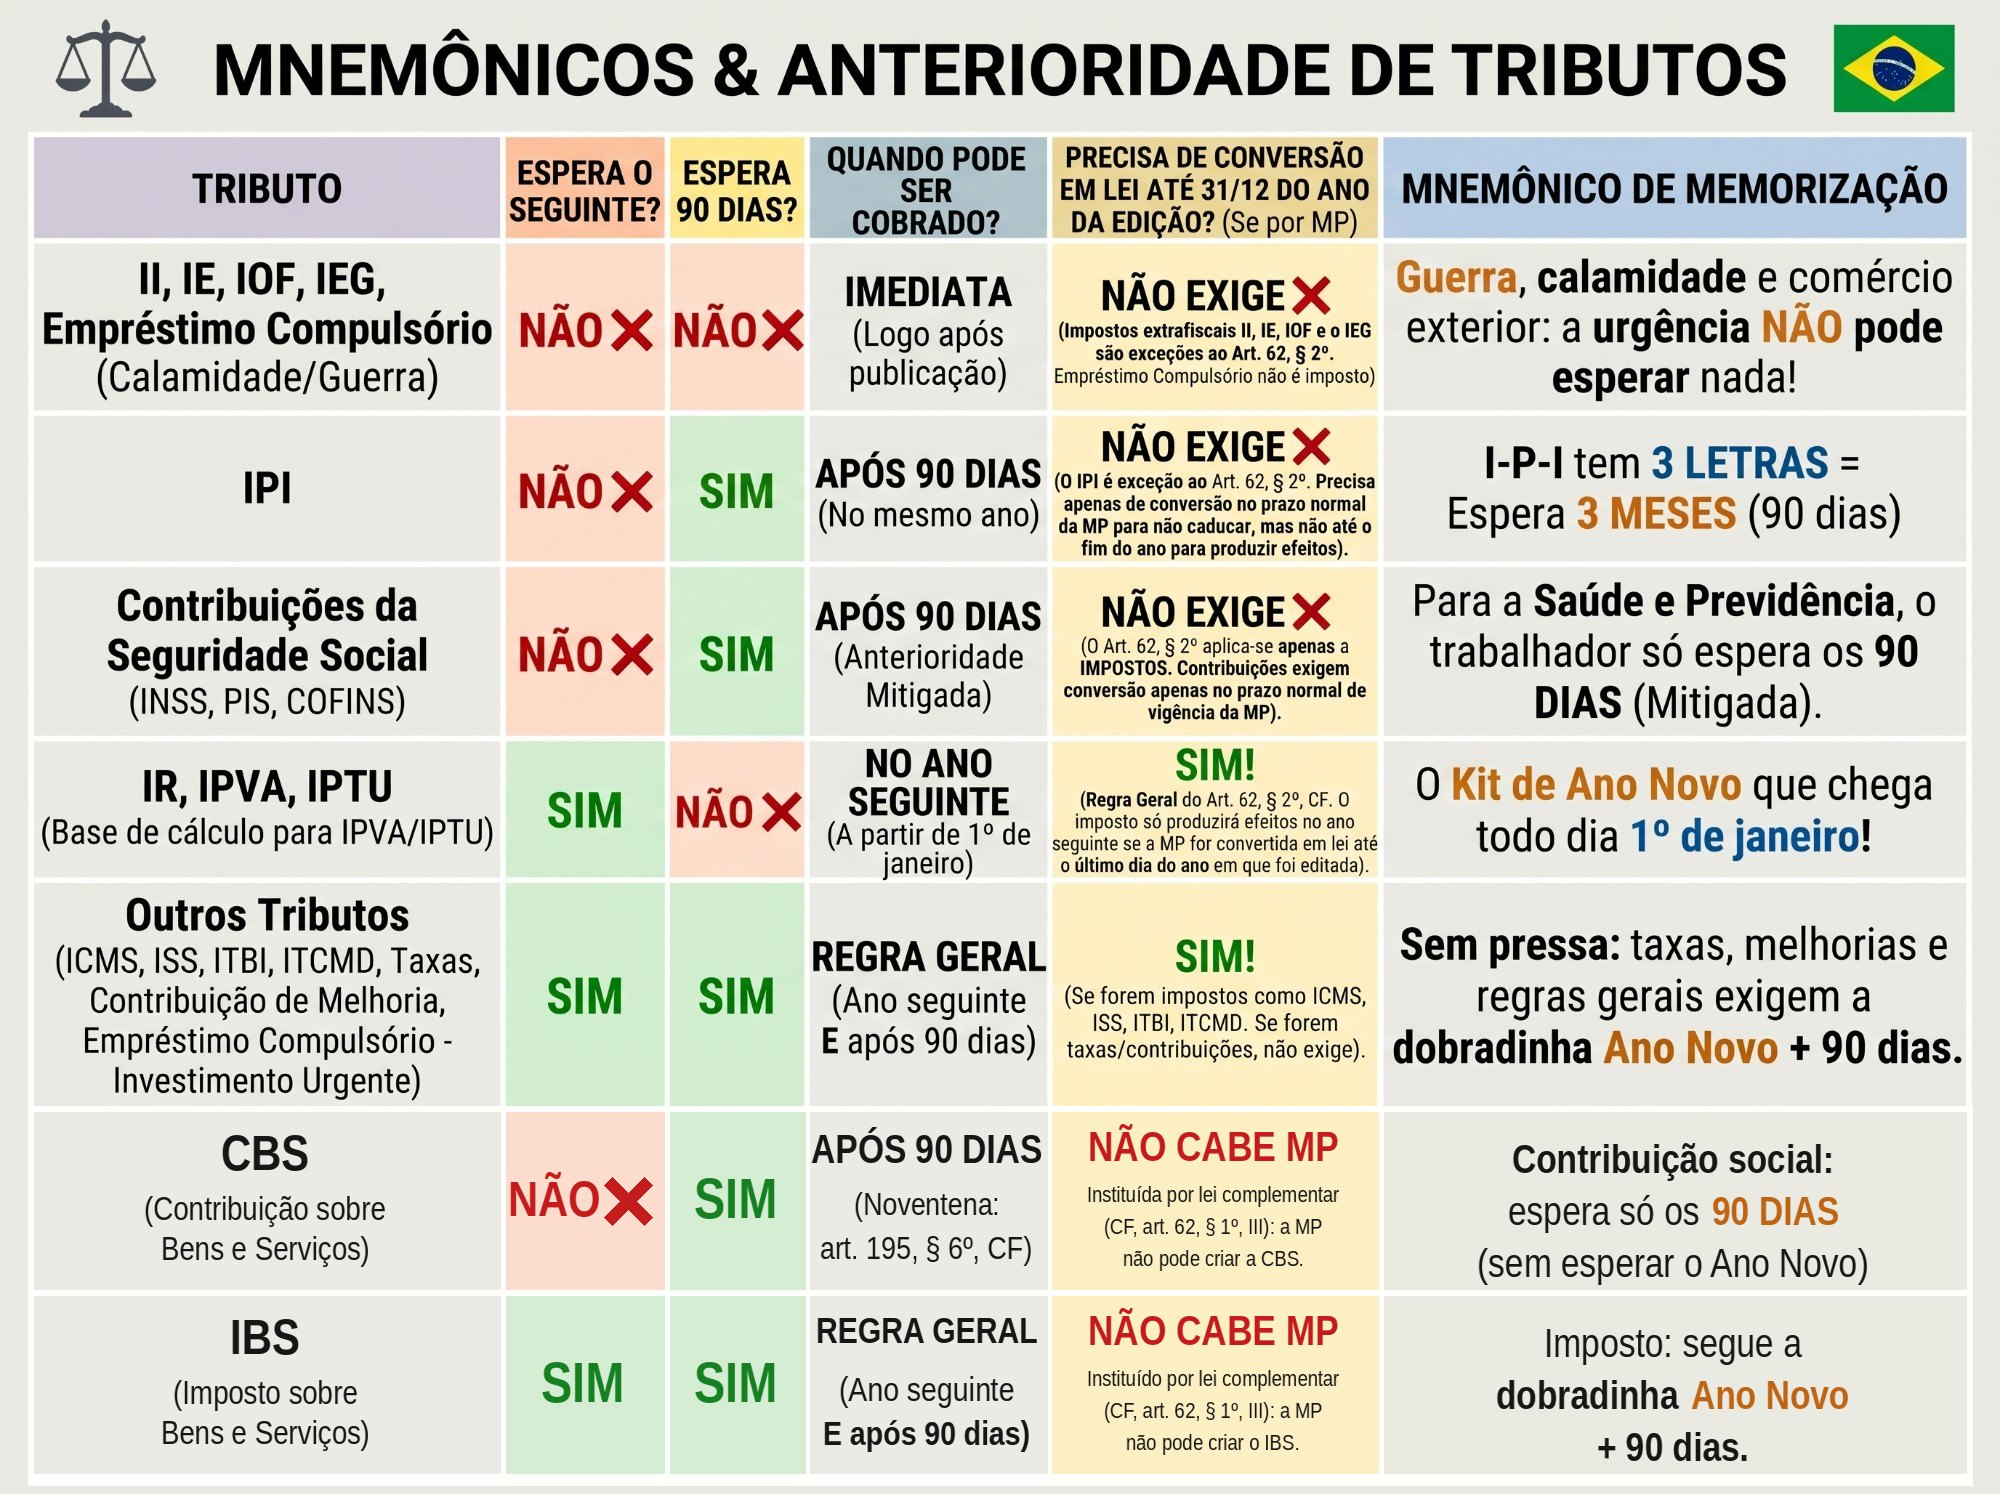
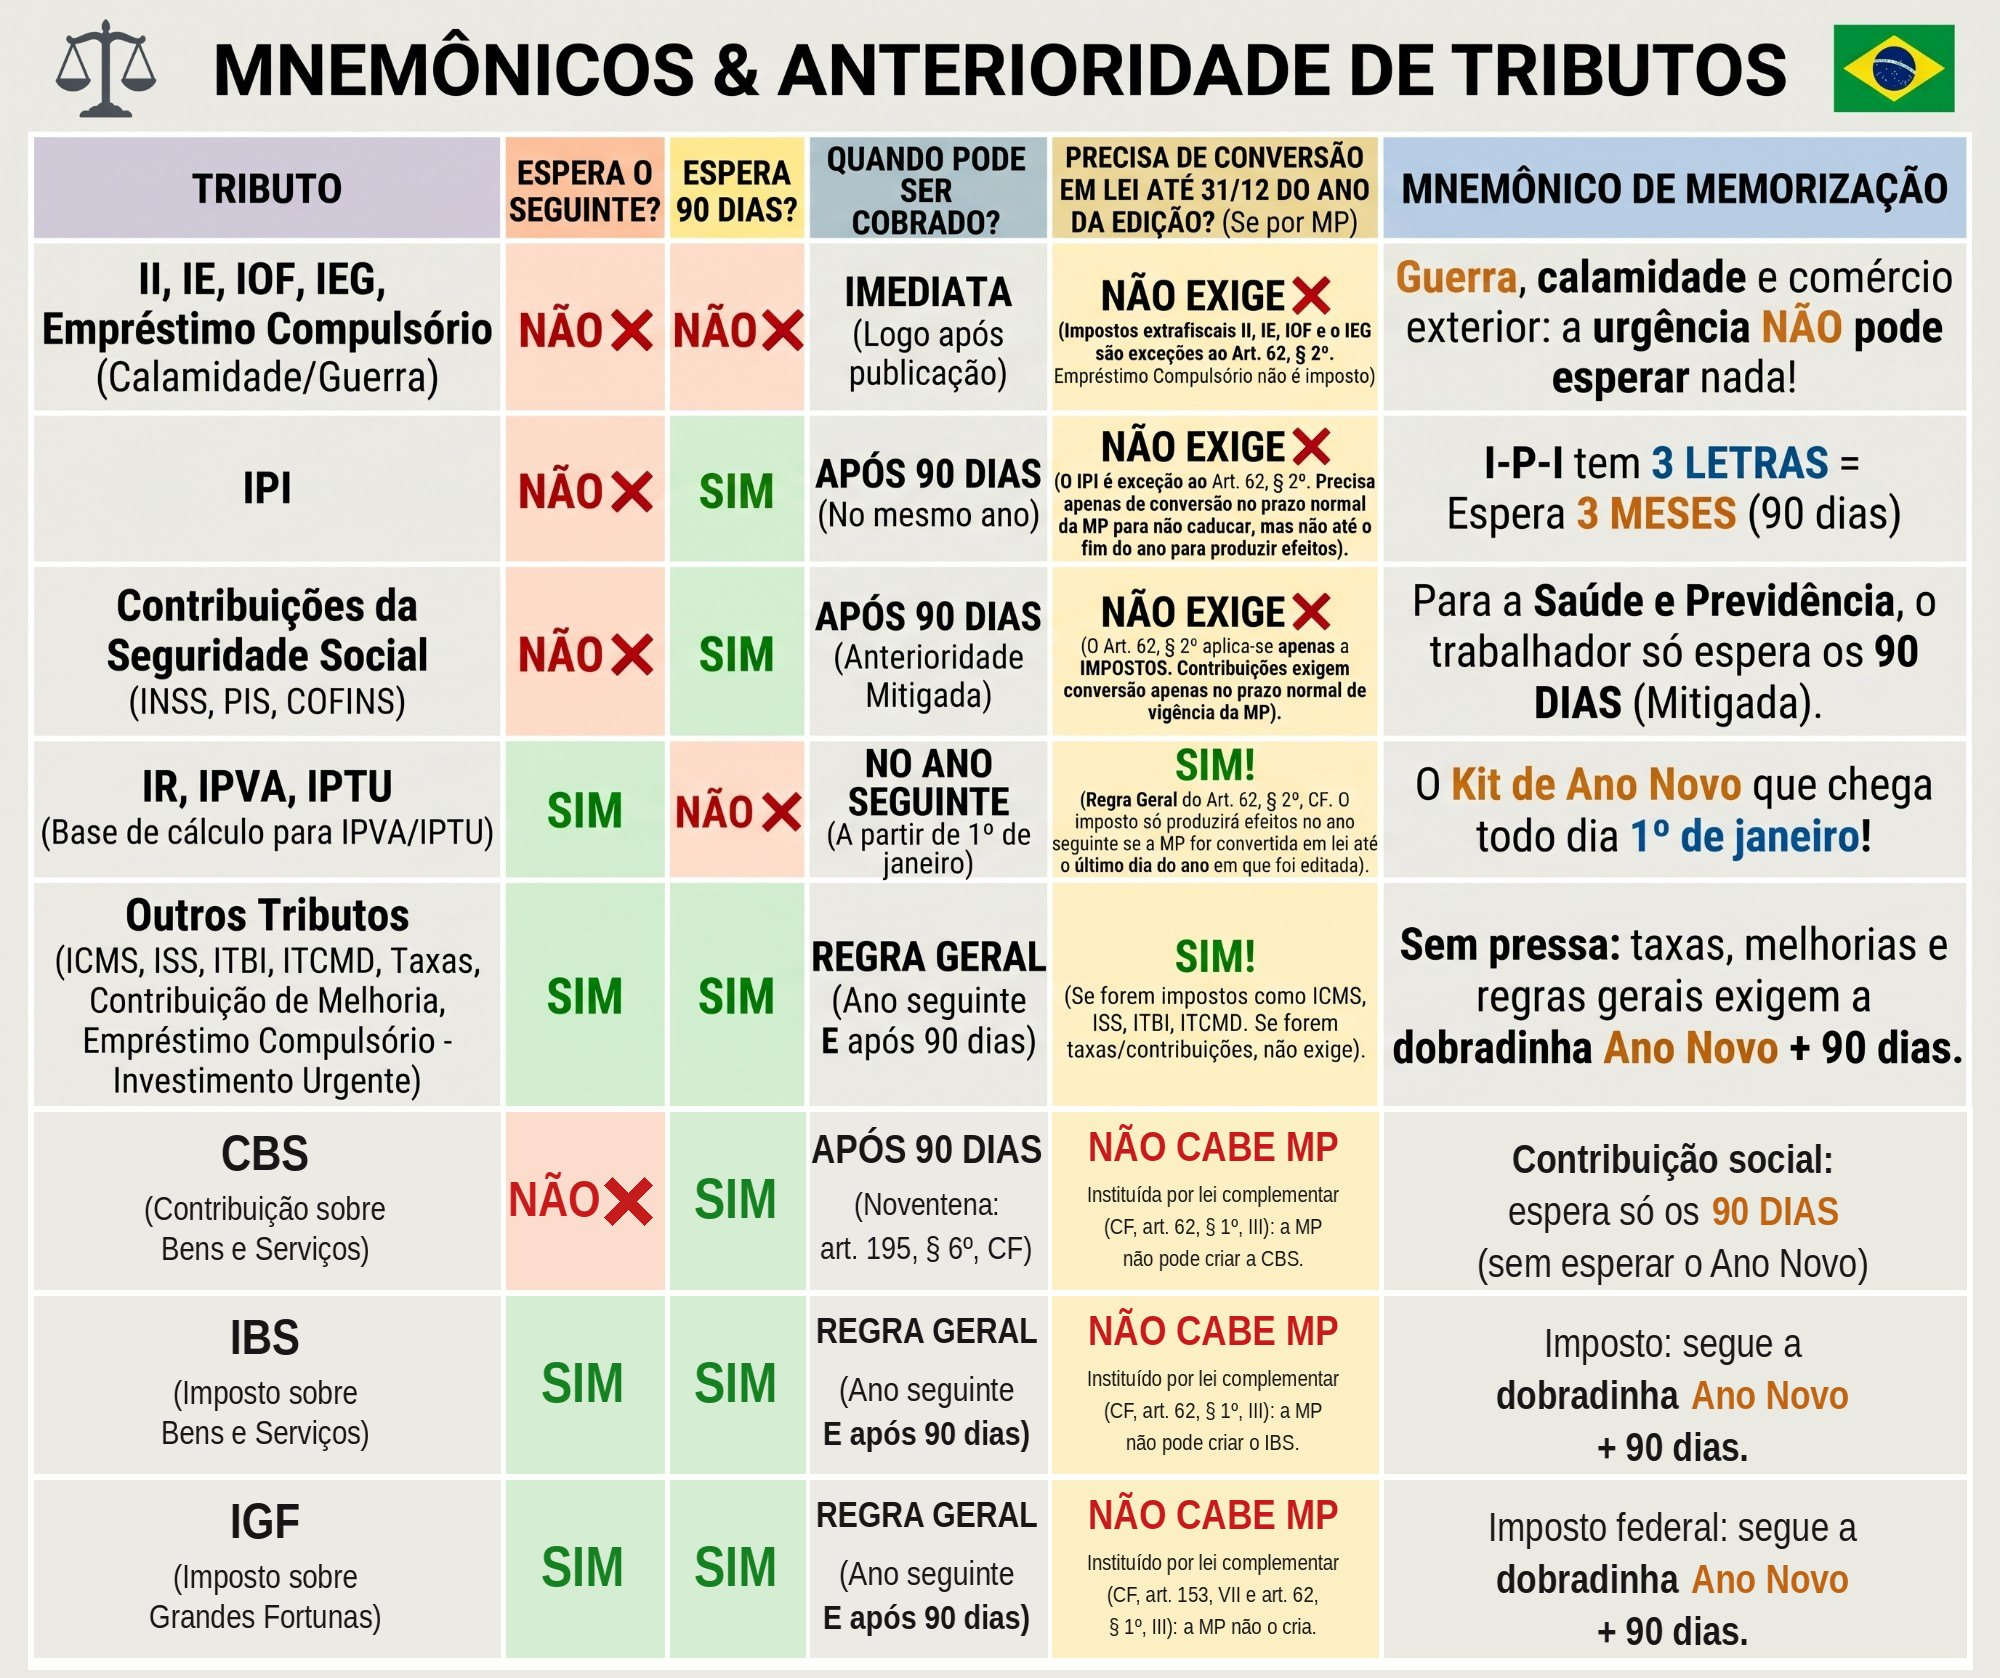
Quadro de anterioridade: linha IGF (v574) (#417)
Claude-Session: https://claude.ai/code/session_01KCGrNa4SuiBh9R4ndoK5zk

diff --git a/index.html b/index.html
@@ -17,74 +17,74 @@
 <meta name="mobile-web-app-capable" content="yes">
 <meta name="apple-mobile-web-app-capable" content="yes">
 <meta name="apple-mobile-web-app-title" content="TCDF">
-<script>window.__TCDF_BUILD__ = { versao: 'v573', build: '2026-11-11 15:00' };</script>
-<link rel="stylesheet" href="css/styles.css?v=v573">
+<script>window.__TCDF_BUILD__ = { versao: 'v574', build: '2026-11-11 15:00' };</script>
+<link rel="stylesheet" href="css/styles.css?v=v574">
 </head>
 <body>
 <a class="pular-conteudo" href="#conteudo-principal" onclick="var m=document.getElementById('conteudo-principal');if(m){m.focus();return false;}">Pular para o conteúdo</a>
 <div class="app" id="app"></div>
 <div id="print-area"></div>
 
-<script src="js/config.js?v=v573"></script>
+<script src="js/config.js?v=v574"></script>
 <script src="https://www.gstatic.com/firebasejs/10.12.2/firebase-app-compat.js" integrity="sha384-AQ3POAMqIhwS81FrUH95ekxqBZHeP5tG2JfEL3+7GuTtfRLWnrRh32UxwzM+//A9" crossorigin="anonymous"></script>
 <script src="https://www.gstatic.com/firebasejs/10.12.2/firebase-firestore-compat.js" integrity="sha384-qn4Jh88HhJA8dplNQyGjOh9OGI4izVhrfj/qIFgaKcdgOE06pXqIKGlsCILZcLAC" crossorigin="anonymous"></script>
 <script src="https://www.gstatic.com/firebasejs/10.12.2/firebase-auth-compat.js" integrity="sha384-TnlRYaR4JYz/lpaGuaiU61PjNberSA4vjLjtF+oRC/IkohkJqnWxw5EmDSOt1vA1" crossorigin="anonymous"></script>
 <script src="https://cdn.jsdelivr.net/npm/pdfjs-dist@3.11.174/legacy/build/pdf.min.js" integrity="sha384-OemFRmhjDZwhIKuUld0HJozkF2YErsgDaCL41trxGQZt4/WgnopJQqQl2DvDZ07Z" crossorigin="anonymous"></script>
 <script src="https://cdn.jsdelivr.net/npm/dompurify@3.2.6/dist/purify.min.js" integrity="sha384-JEyTNhjM6R1ElGoJns4U2Ln4ofPcqzSsynQkmEc/KGy6336qAZl70tDLufbkla+3" crossorigin="anonymous"></script>
-<script src="js/edital.js?v=v573"></script>
-<script src="js/nucleo.js?v=v573"></script>
-<script src="js/cobranca.js?v=v573"></script>
-<script src="js/armadilhas.js?v=v573"></script>
-<script src="js/cartao.js?v=v573"></script>
-<script src="js/teoria-cartoes.js?v=v573"></script>
-<script src="js/teoria-cartoes-trib-1.js?v=v573"></script>
-<script src="js/teoria-cartoes-trib-2.js?v=v573"></script>
-<script src="js/teoria-cartoes-trib-3.js?v=v573"></script>
-<script src="js/teoria-cartoes-trib-4.js?v=v573"></script>
-<script src="js/teoria-cartoes-trib-5.js?v=v573"></script>
-<script src="js/teoria-cartoes-trib-6.js?v=v573"></script>
-<script src="js/teoria-cartoes-trib-7.js?v=v573"></script>
-<script src="js/teoria-cartoes-stf.js?v=v573"></script>
-<script src="js/teoria-cartoes-ext.js?v=v573"></script>
-<script src="js/teoria-cartoes-ad.js?v=v573"></script>
-<script src="js/teoria-cartoes-ad2.js?v=v573"></script>
-<script src="js/teoria-cartoes-cdf.js?v=v573"></script>
-<script src="js/teoria-cartoes-civil.js?v=v573"></script>
-<script src="js/teoria-cartoes-civil-ext.js?v=v573"></script>
-<script src="js/teoria-cartoes-rju.js?v=v573"></script>
-<script src="js/teoria-cartoes-ps.js?v=v573"></script>
-<script src="js/teoria-cartoes-pdpm.js?v=v573"></script>
-<script src="js/teoria-cartoes-cf.js?v=v573"></script>
-<script src="js/teoria-cartoes-adm.js?v=v573"></script>
-<script src="js/teoria-cartoes-prev.js?v=v573"></script>
-<script src="js/teoria-cartoes-in5.js?v=v573"></script>
-<script src="js/teoria-cartoes-d44.js?v=v573"></script>
-<script src="js/teoria-cartoes-ctr.js?v=v573"></script>
-<script src="js/teoria-cartoes-l14.js?v=v573"></script>
-<script src="js/teoria-cartoes-lo.js?v=v573"></script>
-<script src="js/teoria-cartoes-afo.js?v=v573"></script>
-<script src="js/teoria-cartoes-l84.js?v=v573"></script>
-<script src="js/teoria-cartoes-lgpd.js?v=v573"></script>
-<script src="js/teoria-cartoes-lodf.js?v=v573"></script>
-<script src="js/teoria-cartoes-ri.js?v=v573"></script>
-<script src="js/reta-final.js?v=v573"></script>
-<script src="js/reta-7dias.js?v=v573"></script>
-<script src="js/treino.js?v=v573"></script>
-<script src="js/teoria-indice.js?v=v573"></script>
-<script src="js/atualizacoes-legais.js?v=v573"></script>
-<script src="js/teoria.js?v=v573"></script>
-<script src="js/heuristica.js?v=v573"></script>
-<script src="js/armazenamento.js?v=v573"></script>
-<script src="js/nuvem.js?v=v573"></script>
-<script src="js/util.js?v=v573"></script>
-<script src="js/imagens.js?v=v573"></script>
-<script src="js/telas.js?v=v573"></script>
-<script src="js/previsao.js?v=v573"></script>
-<script src="js/estudo.js?v=v573"></script>
-<script src="js/importacao.js?v=v573"></script>
-<script src="js/importacao-lote.js?v=v573"></script>
-<script src="js/eventos.js?v=v573"></script>
-<script src="js/init.js?v=v573"></script>
-<script src="js/verificador-versao.js?v=v573"></script>
+<script src="js/edital.js?v=v574"></script>
+<script src="js/nucleo.js?v=v574"></script>
+<script src="js/cobranca.js?v=v574"></script>
+<script src="js/armadilhas.js?v=v574"></script>
+<script src="js/cartao.js?v=v574"></script>
+<script src="js/teoria-cartoes.js?v=v574"></script>
+<script src="js/teoria-cartoes-trib-1.js?v=v574"></script>
+<script src="js/teoria-cartoes-trib-2.js?v=v574"></script>
+<script src="js/teoria-cartoes-trib-3.js?v=v574"></script>
+<script src="js/teoria-cartoes-trib-4.js?v=v574"></script>
+<script src="js/teoria-cartoes-trib-5.js?v=v574"></script>
+<script src="js/teoria-cartoes-trib-6.js?v=v574"></script>
+<script src="js/teoria-cartoes-trib-7.js?v=v574"></script>
+<script src="js/teoria-cartoes-stf.js?v=v574"></script>
+<script src="js/teoria-cartoes-ext.js?v=v574"></script>
+<script src="js/teoria-cartoes-ad.js?v=v574"></script>
+<script src="js/teoria-cartoes-ad2.js?v=v574"></script>
+<script src="js/teoria-cartoes-cdf.js?v=v574"></script>
+<script src="js/teoria-cartoes-civil.js?v=v574"></script>
+<script src="js/teoria-cartoes-civil-ext.js?v=v574"></script>
+<script src="js/teoria-cartoes-rju.js?v=v574"></script>
+<script src="js/teoria-cartoes-ps.js?v=v574"></script>
+<script src="js/teoria-cartoes-pdpm.js?v=v574"></script>
+<script src="js/teoria-cartoes-cf.js?v=v574"></script>
+<script src="js/teoria-cartoes-adm.js?v=v574"></script>
+<script src="js/teoria-cartoes-prev.js?v=v574"></script>
+<script src="js/teoria-cartoes-in5.js?v=v574"></script>
+<script src="js/teoria-cartoes-d44.js?v=v574"></script>
+<script src="js/teoria-cartoes-ctr.js?v=v574"></script>
+<script src="js/teoria-cartoes-l14.js?v=v574"></script>
+<script src="js/teoria-cartoes-lo.js?v=v574"></script>
+<script src="js/teoria-cartoes-afo.js?v=v574"></script>
+<script src="js/teoria-cartoes-l84.js?v=v574"></script>
+<script src="js/teoria-cartoes-lgpd.js?v=v574"></script>
+<script src="js/teoria-cartoes-lodf.js?v=v574"></script>
+<script src="js/teoria-cartoes-ri.js?v=v574"></script>
+<script src="js/reta-final.js?v=v574"></script>
+<script src="js/reta-7dias.js?v=v574"></script>
+<script src="js/treino.js?v=v574"></script>
+<script src="js/teoria-indice.js?v=v574"></script>
+<script src="js/atualizacoes-legais.js?v=v574"></script>
+<script src="js/teoria.js?v=v574"></script>
+<script src="js/heuristica.js?v=v574"></script>
+<script src="js/armazenamento.js?v=v574"></script>
+<script src="js/nuvem.js?v=v574"></script>
+<script src="js/util.js?v=v574"></script>
+<script src="js/imagens.js?v=v574"></script>
+<script src="js/telas.js?v=v574"></script>
+<script src="js/previsao.js?v=v574"></script>
+<script src="js/estudo.js?v=v574"></script>
+<script src="js/importacao.js?v=v574"></script>
+<script src="js/importacao-lote.js?v=v574"></script>
+<script src="js/eventos.js?v=v574"></script>
+<script src="js/init.js?v=v574"></script>
+<script src="js/verificador-versao.js?v=v574"></script>
 </body>
 </html>
